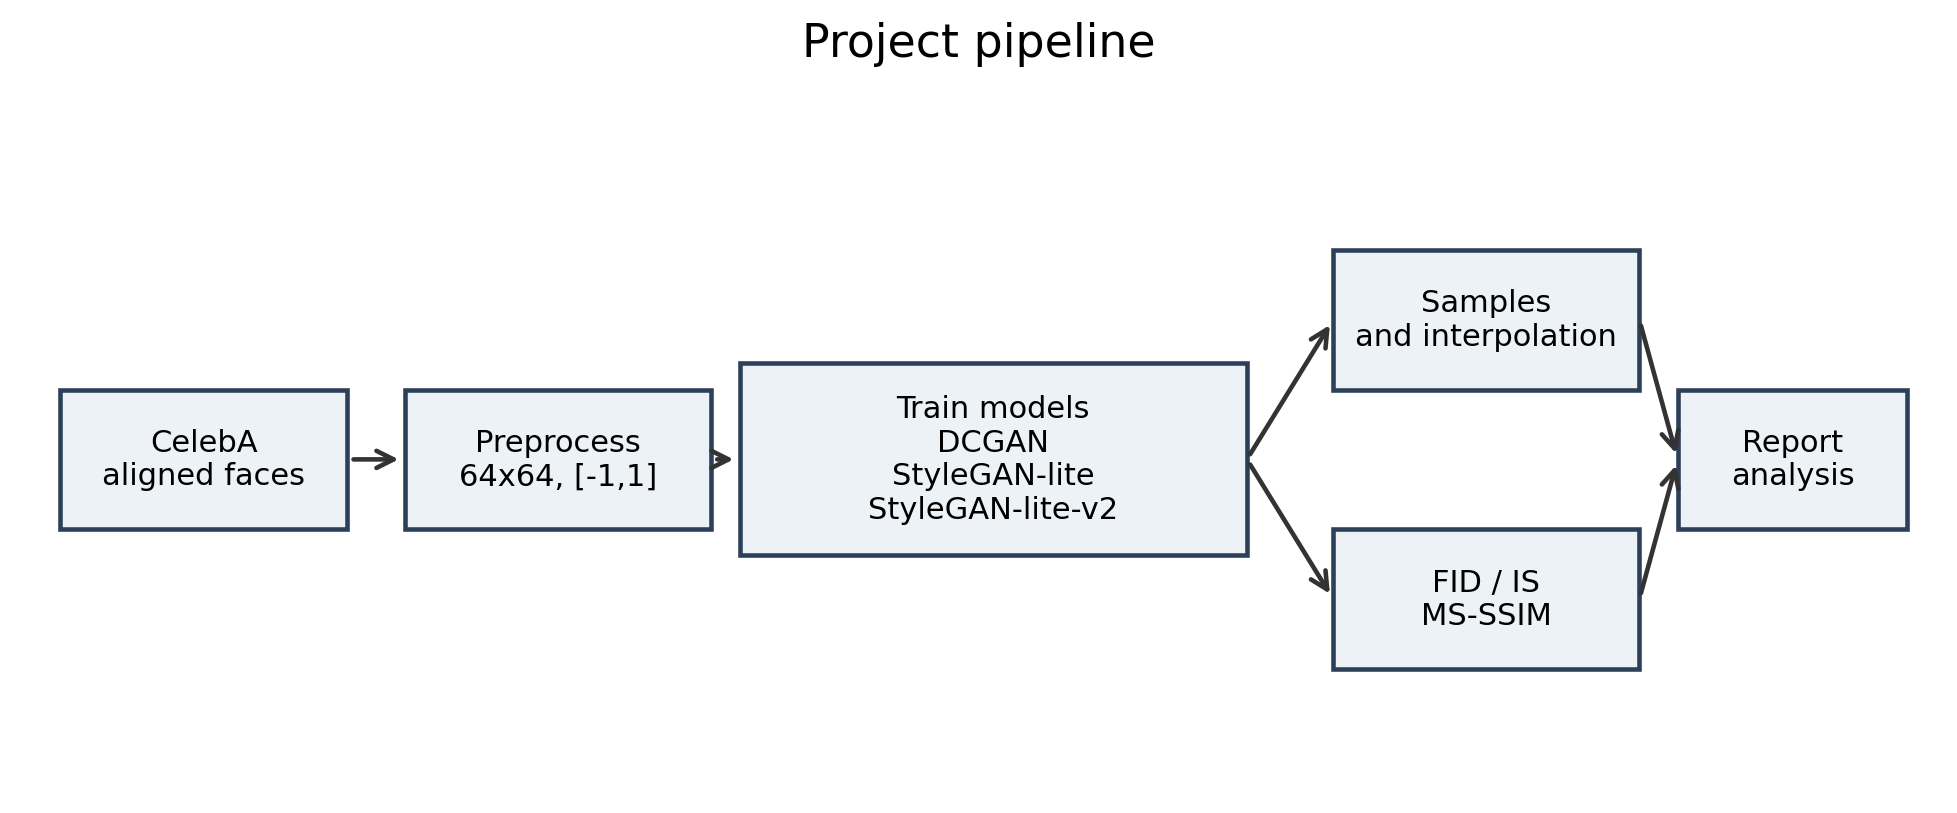
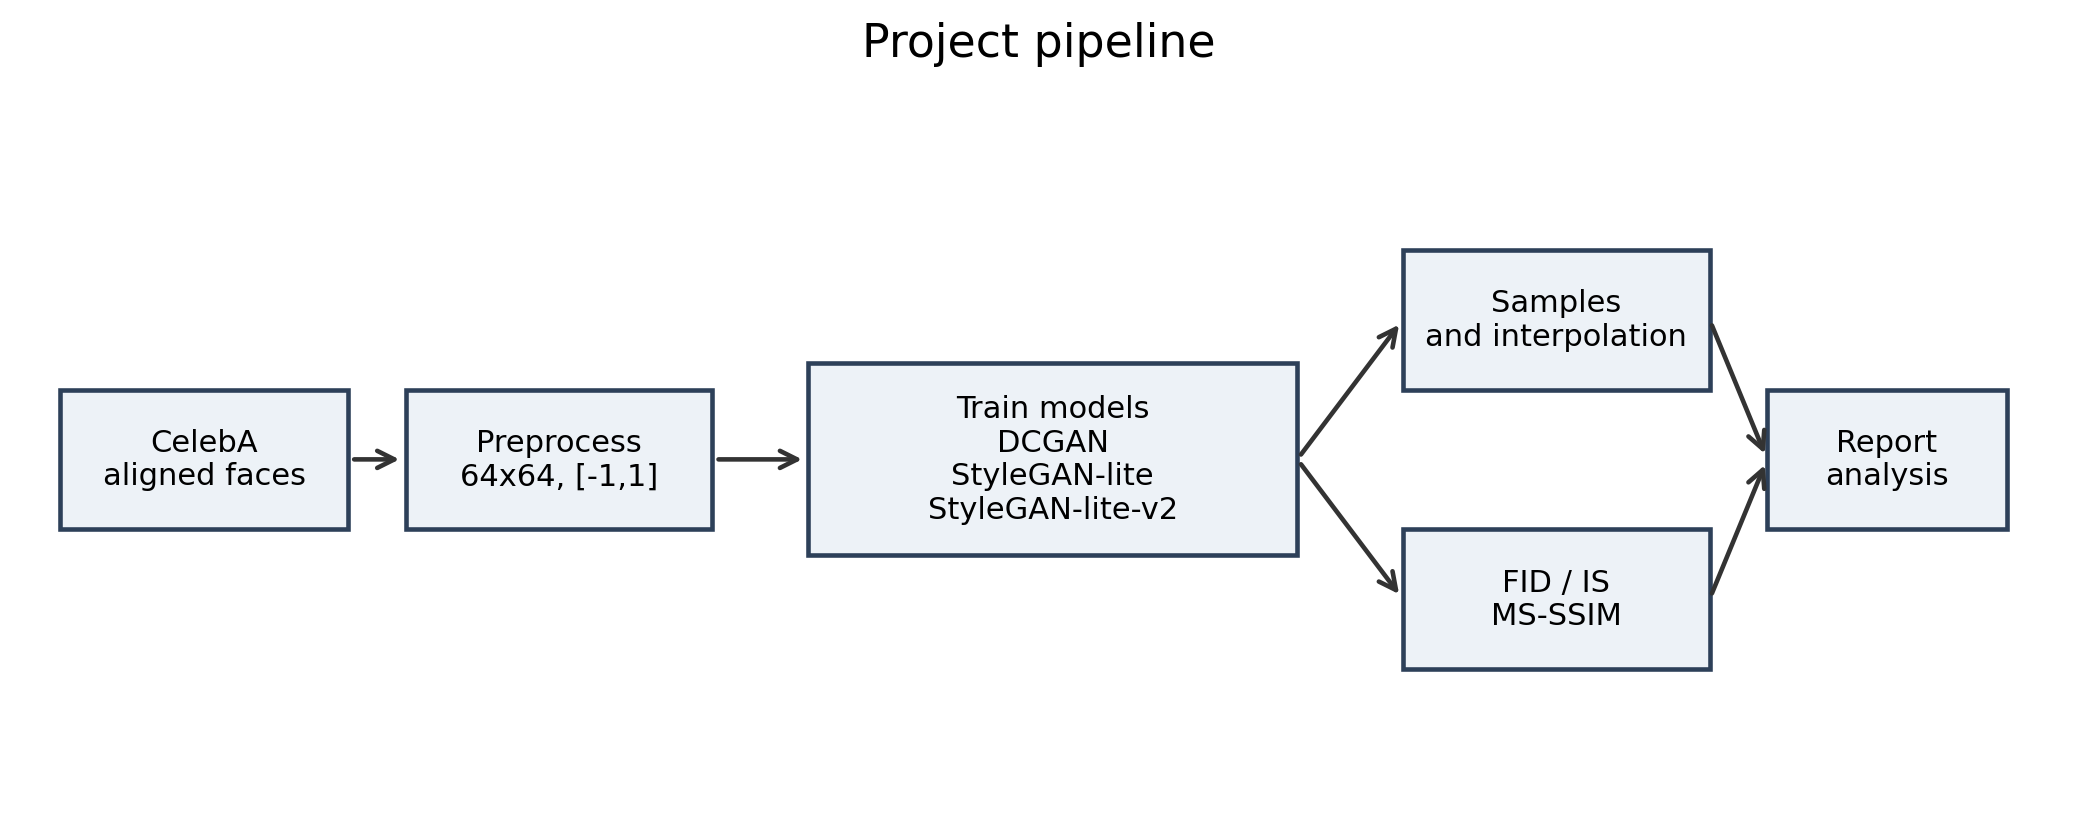
优化fig1：项目整体流程图

diff --git a/scripts/make_report_figures.py b/scripts/make_report_figures.py
@@ -277,9 +277,15 @@ def make_image_composites() -> None:
         Image.open(source).save(ASSETS / target)
 
 
-def draw_flow(path: Path, boxes: list[tuple[str, float, float, float, float]], arrows: list[tuple[int, int]], title: str) -> None:
-    fig, ax = plt.subplots(figsize=(9.0, 3.8))
-    ax.set_xlim(0, 10)
+def draw_flow(
+    path: Path,
+    boxes: list[tuple[str, float, float, float, float]],
+    arrows: list[tuple[int, int]],
+    title: str,
+    x_max: float = 10,
+) -> None:
+    fig, ax = plt.subplots(figsize=(9.0 * x_max / 10, 3.8))
+    ax.set_xlim(0, x_max)
     ax.set_ylim(0, 4)
     ax.axis("off")
     ax.set_title(title, fontsize=15, pad=12)
@@ -308,13 +314,14 @@ def make_diagrams() -> None:
         [
             ("CelebA\naligned faces", 0.2, 1.5, 1.5, 0.8),
             ("Preprocess\n64x64, [-1,1]", 2.0, 1.5, 1.6, 0.8),
-            ("Train models\nDCGAN\nStyleGAN-lite\nStyleGAN-lite-v2", 3.75, 1.35, 2.65, 1.1),
-            ("Samples\nand interpolation", 6.85, 2.3, 1.6, 0.8),
-            ("FID / IS\nMS-SSIM", 6.85, 0.7, 1.6, 0.8),
-            ("Report\nanalysis", 8.65, 1.5, 1.2, 0.8),
+            ("Train models\nDCGAN\nStyleGAN-lite\nStyleGAN-lite-v2", 4.1, 1.35, 2.55, 1.1),
+            ("Samples\nand interpolation", 7.2, 2.3, 1.6, 0.8),
+            ("FID / IS\nMS-SSIM", 7.2, 0.7, 1.6, 0.8),
+            ("Report\nanalysis", 9.1, 1.5, 1.25, 0.8),
         ],
         [(0, 1), (1, 2), (2, 3), (2, 4), (3, 5), (4, 5)],
         "Project pipeline",
+        x_max=10.6,
     )
     draw_flow(
         ASSETS / "gan_training_diagram.png",